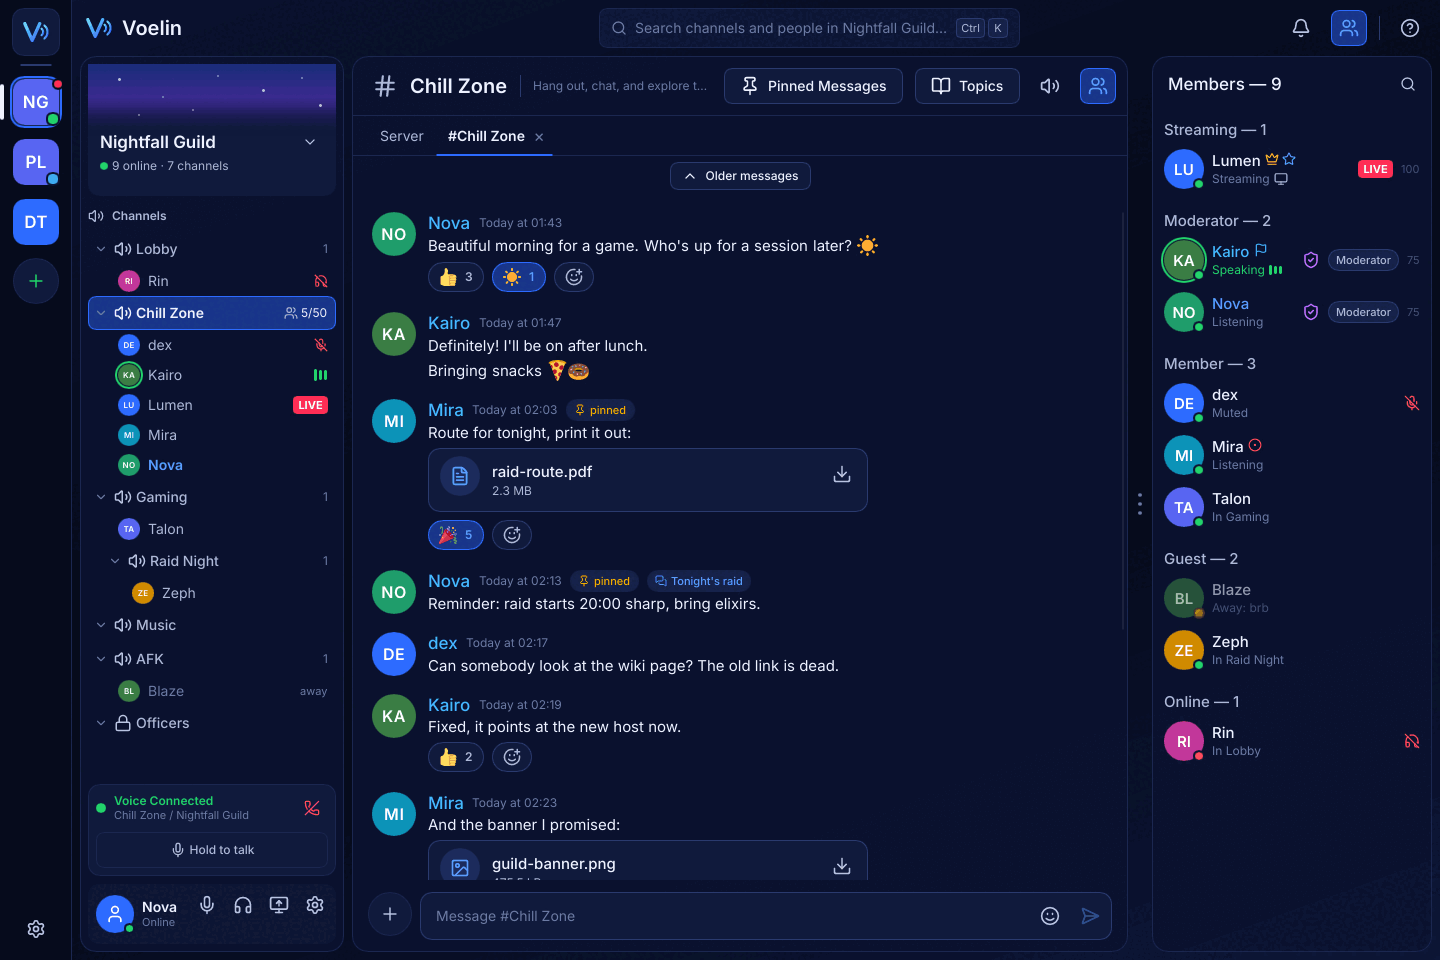
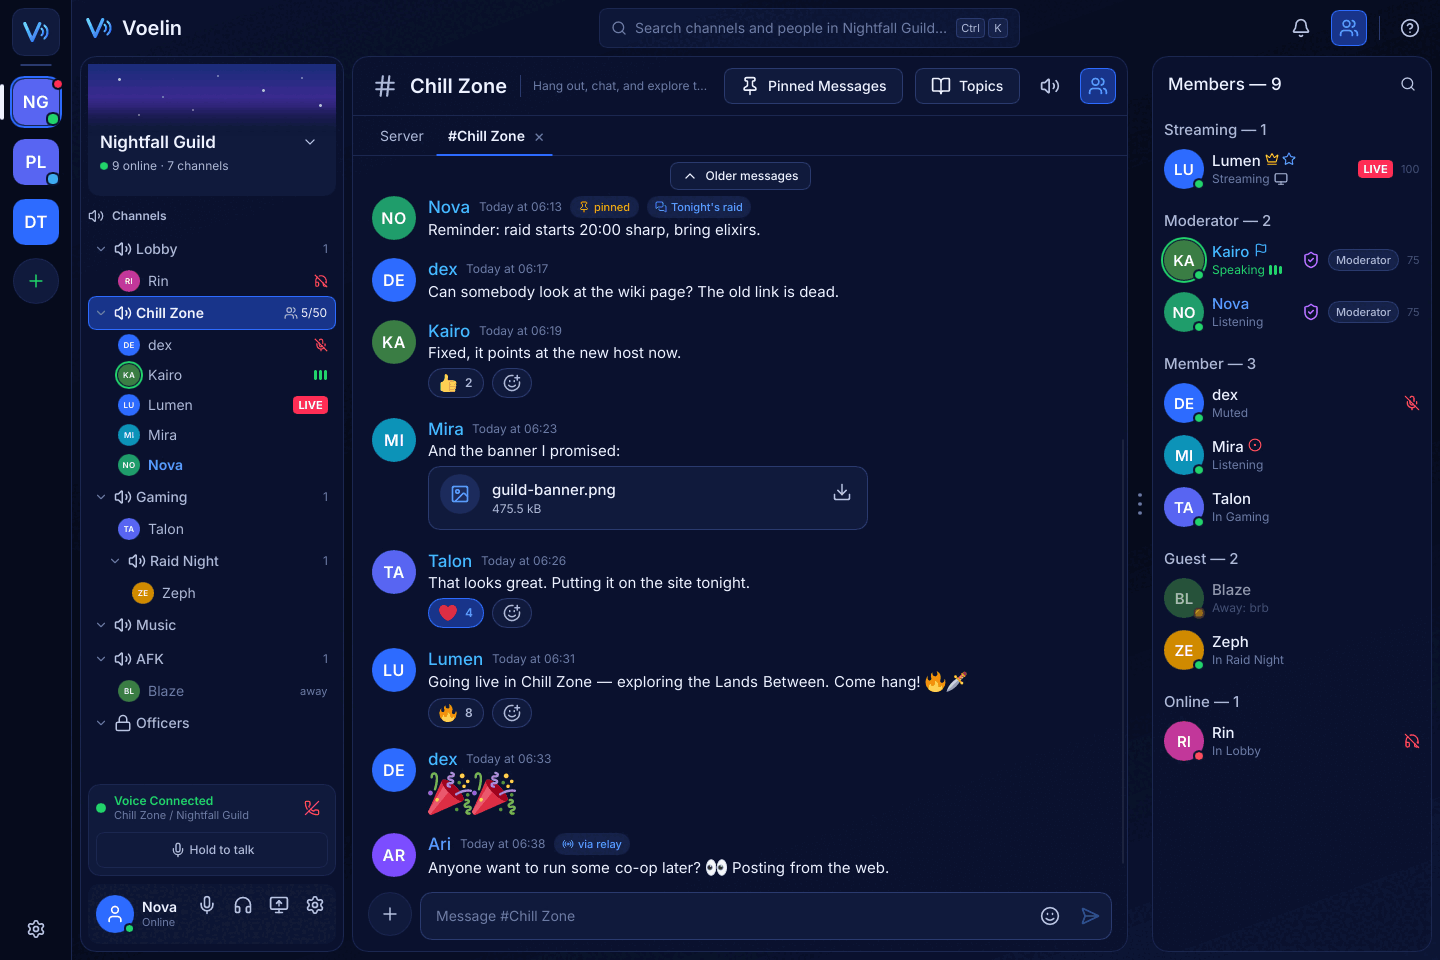
voelin-ui: open chats at the newest message, and jump to pins
Nothing set the position of the message list, so a chat opened at the
oldest loaded message and new ones arrived out of sight below. The list
now starts at its end and follows new messages while it is there;
scrolling up stops that until the end is reached again, and another tab
starts at its end.

Jumping to a pinned message highlighted it but did not scroll: it now
scrolls to the message (to where an average row would be, as the
standard list estimates it, since rows differ in height) and leaves an
open topic for the chat.

The members panel could be dragged no wider than 420 px; it can now
take what the window allows while the chat keeps 400 px.

Changed region(s): [[0.25, 0.1875, 0.6875, 0.9375], [0.5625, 0.5, 0.5938, 0.5312]]

diff --git a/crates/voelin-ui/src/chat.rs b/crates/voelin-ui/src/chat.rs
@@ -573,7 +573,18 @@ impl App {
 		let Some(view) = self.view_mut() else { return };
 		let tab = &mut view.tabs[view.current_tab];
 		tab.marked = tab.pins.iter().find(|p| p.key == key).map(|p| p.message.id);
+		// The message is in the chat, not in an open topic.
+		if tab.topic.take().is_some() {
+			tab.topic_messages.clear();
+		}
+		// Older than what is loaded: only highlighted once it is.
+		let row = tab.marked.and_then(|id| tab.messages.iter().position(|m| m.message.id == id));
 		self.refresh_chat();
+		if let (Some(row), Some(ui)) = (row, self.ui.upgrade()) {
+			let bridge = ui.global::<Bridge>();
+			bridge.set_jump_index(row as i32);
+			bridge.set_jump_requests(bridge.get_jump_requests().wrapping_add(1));
+		}
 	}
 
 	/// The topics drawer's search.
